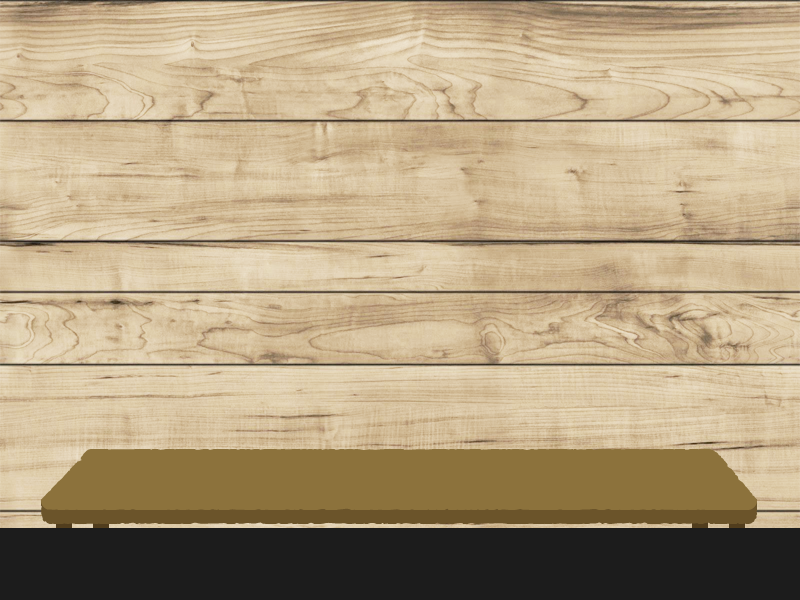
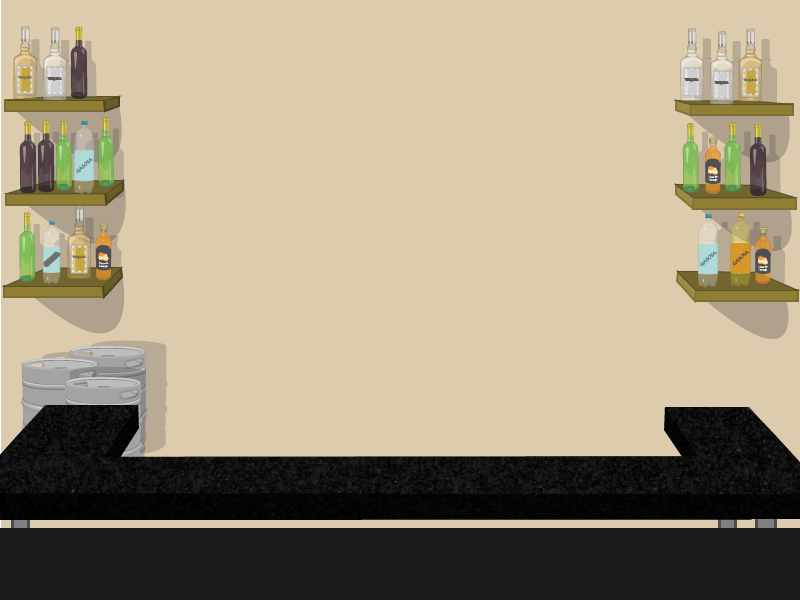
Changed background and organized some code

diff --git a/Map.js b/Map.js
@@ -11,17 +11,13 @@ var level1 = {
 }
 
 function Map(){
-	//this.mapStage = new createjs.Container();
 	this.pipes = [];
-	this.matrixStage = new createjs.Container();
-
 	this.drinks = [];
-	this.drinkStage = new createjs.Container();
-
 	this.cocktails = [];
-	this.cocktailStage = new createjs.Container();
-
 	this.selectedPipe = null;
+
+	this.generate();
+	this.setContainers();
 
 	this.load = function(){
 		for(var i = 0; i < 5; i++){
@@ -39,11 +35,7 @@ function Map(){
 			for(var j = 0; j < 11; j++){
 
 				var pipe = new Pipe({x: j, y: i}, level1.pipes[i][j][0], level1.pipes[i][j][1]);
-
 				this.matrixStage.addChild(pipe.stage);
-				pipe.stage.y = 50*i;
-				pipe.stage.x = 50*j;
-
 				line.push(pipe);
 			}
 			this.pipes.push(line);
@@ -58,58 +50,6 @@ function Map(){
 			var cocktail = new Receiver(i, level1.receiver[i]);
 			this.cocktailStage.addChild(cocktail.sprite);
 			this.cocktails.push(cocktail);
-		}
-	}
-
-	this.generate = function(){
-		for(var i = 0; i < 5; i++){
-			var rand = Math.floor((Math.random() * 10));
-			var s;
-			if(rand == 0) s = "beer";
-			else if(rand == 1) s = "wine";
-			else if(rand == 2) s = "tequila";
-			else if(rand == 3) s = "soda";
-			else if(rand == 4) s = "liquor";
-			else continue;
-
-			var drink = new Drink(i, s);
-			this.drinkStage.addChild(drink.sprite);
-			this.drinks.push(drink);
-		}
-
-		for(var i = 0; i < 5; i++){
-			var line = [];
-			for(var j = 0; j < 11; j++){
-				
-				var rand = Math.floor((Math.random() * 11));
-				var rot = Math.floor((Math.random() * 4));
-				var s;
-
-				if(rand < 3) s = "rect";
-				else if(rand < 6) s = "curve";
-				else if(rand < 8) s = "segundo";
-				else if(rand < 10) s = "bridge";
-				else if(rand == 10) s = "mixer";
-
-				var pipe = new Pipe({x: j, y: i}, s, rot);
-
-				this.matrixStage.addChild(pipe.stage);
-				pipe.stage.x = 50*j;
-				pipe.stage.y = 50*i;
-
-				line.push(pipe);
-			}
-			this.pipes.push(line);
-		}
-
-		for(var i = 0; i < 11; i++){
-			if(i == 7){
-				var cocktail = new Receiver(i, "beer");
-				this.cocktailStage.addChild(cocktail.sprite);
-				this.cocktails.push(cocktail);
-			}
-			else
-				this.cocktails.push(null);
 		}
 	}
 
@@ -153,7 +93,6 @@ function Map(){
 			pipe.above.gotoAndPlay("selected");
 		}
 		else{
-			//console.log(relation(pipe.pos, this.selectedPipe.pos));
 			//if(relation(pipe.pos, this.selectedPipe.pos) != "unknown"){
 				this.swap(pipe, this.selectedPipe);
 				this.selectedPipe.above.gotoAndPlay("normal");
@@ -161,4 +100,82 @@ function Map(){
 			//}
 		}
 	}
+}
+
+Map.prototype.generate = function(){
+
+	for(var i = 0; i < 5; i++){
+		var rand = Math.floor((Math.random() * 10));
+		var s;
+		if(rand == 0) s = "beer";
+		else if(rand == 1) s = "wine";
+		else if(rand == 2) s = "tequila";
+		else if(rand == 3) s = "soda";
+		else if(rand == 4) s = "liquor";
+		else continue;
+
+		var drink = new Drink(i, s);
+		this.drinks.push(drink);
+	}
+
+	for(var i = 0; i < 5; i++){
+		var line = [];
+		for(var j = 0; j < 11; j++){
+			
+			var rand = Math.floor((Math.random() * 11));
+			var rot = Math.floor((Math.random() * 4));
+			var s;
+
+			if(rand < 3) s = "rect";
+			else if(rand < 6) s = "curve";
+			else if(rand < 8) s = "segundo";
+			else if(rand < 10) s = "bridge";
+			else s = "mixer";
+
+			var pipe = new Pipe({x: j, y: i}, s, rot);
+			line.push(pipe);
+		}
+		this.pipes.push(line);
+	}
+
+	for(var i = 0; i < 11; i++){
+		if(i == 7){
+			var cocktail = new Receiver(i, "beer");
+			this.cocktails.push(cocktail);
+		}
+		else
+			this.cocktails.push(null);
+	}
+}
+
+Map.prototype.setContainers = function(){
+	this.matrixStage = new createjs.Container();	
+	this.matrixStage.x = 125;
+	this.matrixStage.y = 150;
+
+	this.drinkStage = new createjs.Container();
+	this.drinkStage.x = 150;
+	this.drinkStage.y = 25;
+
+	this.cocktailStage = new createjs.Container();
+	this.cocktailStage.x = 125;
+	this.cocktailStage.y = 400;
+
+	for(var i = 0; i < this.drinks.length; i++){
+		if(this.drinks[i] != null)
+			this.drinkStage.addChild(this.drinks[i].sprite);
+	}
+
+	for(var i = 0; i < this.pipes.length; i++){
+		for(var j = 0; j < this.pipes[i].length; j++){
+			if(this.pipes[i][j] != null)
+				this.matrixStage.addChild(this.pipes[i][j].stage);
+		}
+	}
+
+	for(var i = 0; i < this.cocktails.length; i++){
+		if(this.cocktails[i] != null)
+			this.cocktailStage.addChild(this.cocktails[i].sprite);
+	}
+
 }

diff --git a/Pipe.js b/Pipe.js
@@ -57,13 +57,15 @@ function Pipe(pos, t, rot){
 
 	this.flows = pipes[t].flows(rot);
 	this.loadSprite(pipes[t].src(rot));
-	this.setContainer();
+	this.setContainers();
 
 	this.locked = false;
-
 	this.mixer = false;
-	if(t == "mixer")
+
+	if(t == "mixer"){
 		this.mixer = true;
+		//this.locked = true;
+	}
 
 
 	this.update = function(){
@@ -103,10 +105,8 @@ function Pipe(pos, t, rot){
 			return null;
 
 		for(var i = 0; i < this.flows.length; i++){
-			if(this.flows[i].start(origin, liq)){
+			if(this.flows[i].start(origin, liq))
 				this.locked = true;
-				this.above.spriteSheet = loadSprite("home").spriteSheet;
-			}
 		}
 	}
 
@@ -139,7 +139,6 @@ function Pipe(pos, t, rot){
 		if(!this.locked)
 			map.input(this, null);
 	}, this);
-
 }
 
 Pipe.prototype.loadSprite = function(type){
@@ -154,9 +153,11 @@ Pipe.prototype.loadSprite = function(type){
 	this.above = new createjs.Sprite(spriteSheet, "normal");
 }
 
-Pipe.prototype.setContainer = function(){
+Pipe.prototype.setContainers = function(){
 	//create
 	this.stage = new createjs.Container();
+	this.stage.y = 50 * this.pos.y;
+	this.stage.x = 50 * this.pos.x;
 
 	//add pipe sprite
 	this.stage.addChild(this.under);
@@ -171,4 +172,6 @@ Pipe.prototype.setContainer = function(){
 	var hit = new createjs.Shape();
 	hit.graphics.beginFill("#000").drawRect(0, 0, 50, 50);
 	this.stage.hitArea = hit;
+
+	
 }

diff --git a/main.js b/main.js
@@ -23,17 +23,8 @@ function loadLevel(){
 	stage.addChild(background);
 
 	map = new Map();
-	map.generate();
 
 	stage.addChild(map.matrixStage);
-	map.matrixStage.x = 125;
-	map.matrixStage.y = 150;
-
 	stage.addChild(map.drinkStage);
-	map.drinkStage.x = 150;
-	map.drinkStage.y = 25;
-
 	stage.addChild(map.cocktailStage);
-	map.cocktailStage.x = 125;
-	map.cocktailStage.y = 400;
 }

diff --git a/receiver.js b/receiver.js
@@ -24,7 +24,7 @@ Receiver.prototype.loadSprite = function(){
 	};
 	var spriteSheet = new createjs.SpriteSheet(data);
 
-	console.log(drinks[this.liq].glass);
+
 	//sprite
 	this.sprite = new createjs.Sprite(spriteSheet, "empty");
 

diff --git a/Flow.js b/Flow.js
@@ -25,6 +25,8 @@ function Flow(type, rot){
 
 		this.liq = liq;
 		this.reached = true;
+
+		return true;
 	}
 
 	this.update = function(){
